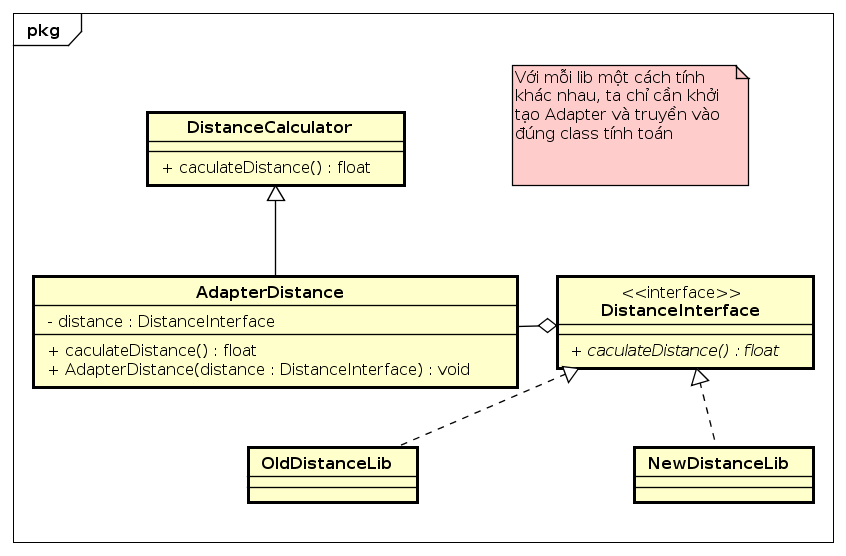
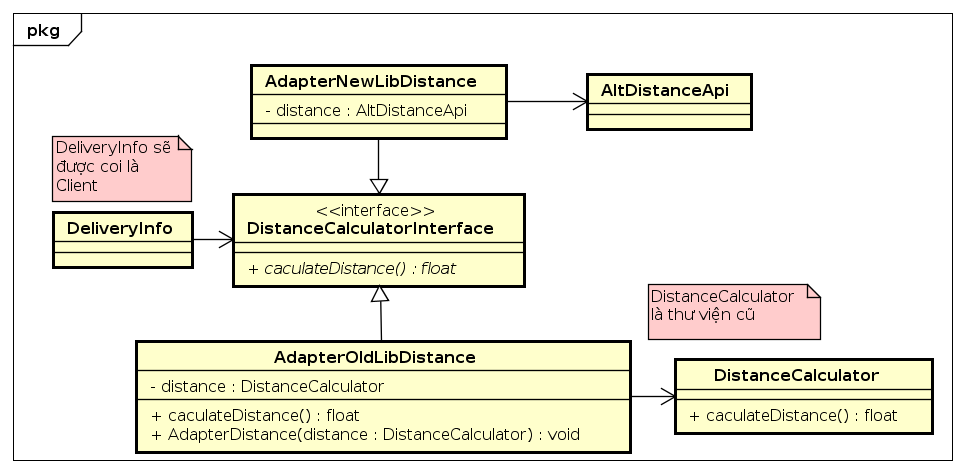
add adapter design pattern new

diff --git a/src/main/java/entity/shipping/DeliveryInfo.java b/src/main/java/entity/shipping/DeliveryInfo.java
@@ -3,7 +3,8 @@ package entity.shipping;
 import entity.order.Order;
 import org.example.DistanceCalculator;
 
-import common.interfaces.DistanceInterface;
+import adapter.AdapterOldLibDistance;
+import common.interfaces.DistanceCalculatorInterface;
 
 /*
     SOLID: Vi phạm nguyên lý OCP vì method calculateShippingFee mới chỉ tính 1 cách
@@ -17,7 +18,7 @@ public class DeliveryInfo {
 	protected String province;
 	protected String address;
 	protected String shippingInstructions;
-	protected DistanceAdapter distanceAdapter;
+	protected DistanceCalculatorInterface distanceCalculatorInterface;
 	private static final double MULTIPLIER = 1.2;
 
 	public DeliveryInfo() {
@@ -25,19 +26,19 @@ public class DeliveryInfo {
 	}
 
 	public DeliveryInfo(String name, String phone, String province, String address, String shippingInstructions,
-			DistanceInterface distanceInterface) {
+			DistanceCalculatorInterface distanceInterface) {
 		this.name = name;
 		this.phone = phone;
 		this.province = province;
 		this.address = address;
 		this.shippingInstructions = shippingInstructions;
-		this.distanceAdapter = new DistanceAdapter(distanceInterface);
+		this.distanceCalculatorInterface = new AdapterOldLibDistance(new DistanceCalculator());
 	}
 
 	public int calculateShippingFee(Order order) { // Vi pham nguyen tac Stamp Coupling
 		// boi vi truyen doi tuong order vao nhung khong su dung cac thuoc tinh cua doi
 		// tuong nay
-		int distance = distanceAdapter.calculateDistance(address, province);
+		int distance = distanceCalculatorInterface.calculateDistance(address, province);
 		return (int) (distance * MULTIPLIER);
 	}
 

diff --git a/src/main/java/entity/shipping/DistanceAdapter.java b/src/main/java/entity/shipping/DistanceAdapter.java
@@ -2,13 +2,13 @@ package entity.shipping;
 
 import org.example.DistanceCalculator;
 
-import common.interfaces.DistanceInterface;
+import common.interfaces.DistanceCalculatorInterface;
 
 public class DistanceAdapter implements CalculatorDistance {
 	
-	private DistanceInterface distanceInterface;
+	private DistanceCalculatorInterface distanceInterface;
 	
-	public DistanceAdapter(DistanceInterface distanceInterface) {
+	public DistanceAdapter(DistanceCalculatorInterface distanceInterface) {
 		// TODO Auto-generated constructor stub
 		this.distanceInterface = distanceInterface;
 	}

diff --git a/src/main/java/adapter/AdapterOldLibDistance.java b/src/main/java/adapter/AdapterOldLibDistance.java
@@ -1,0 +1,20 @@
+package adapter;
+
+import org.example.DistanceCalculator;
+
+import common.interfaces.DistanceCalculatorInterface;
+
+public class AdapterOldLibDistance implements DistanceCalculatorInterface {
+	private DistanceCalculator distanceCalculator;
+
+	public AdapterOldLibDistance(DistanceCalculator distanceCalculator) {
+		this.distanceCalculator = distanceCalculator;
+	}
+
+	@Override
+	public int calculateDistance(String address, String province) {
+		// TODO Auto-generated method stub
+		return distanceCalculator.calculateDistance(address, province);
+	}
+
+}

diff --git a/src/main/java/entity/shipping/LastestDistanceCalculate.java b/src/main/java/entity/shipping/LastestDistanceCalculate.java
@@ -1,9 +1,9 @@
 package entity.shipping;
 
-import common.interfaces.DistanceInterface;
+import common.interfaces.DistanceCalculatorInterface;
 import org.example.DistanceCalculator;
 
-public class LastestDistanceCalculate implements DistanceInterface {
+public class LastestDistanceCalculate implements DistanceCalculatorInterface {
 
 	@Override
 	public int calculateDistance(String address, String province) {

diff --git a/src/main/java/adapter/AdapterNewLibDistance.java b/src/main/java/adapter/AdapterNewLibDistance.java
@@ -1,0 +1,17 @@
+package adapter;
+
+import common.interfaces.DistanceCalculatorInterface;
+
+public class AdapterNewLibDistance implements DistanceCalculatorInterface {
+
+	public AdapterNewLibDistance() {
+		// TODO Auto-generated constructor stub
+	}
+
+	@Override
+	public int calculateDistance(String address, String province) {
+		// TODO Auto-generated method stub
+		return 0;
+	}
+
+}

diff --git a/src/main/java/common/interfaces/DistanceCalculatorInterface.java b/src/main/java/common/interfaces/DistanceCalculatorInterface.java
@@ -1,6 +1,6 @@
 package common.interfaces;
 
 
-public interface DistanceInterface {
+public interface DistanceCalculatorInterface {
 	public int calculateDistance(String address, String province);
 }
